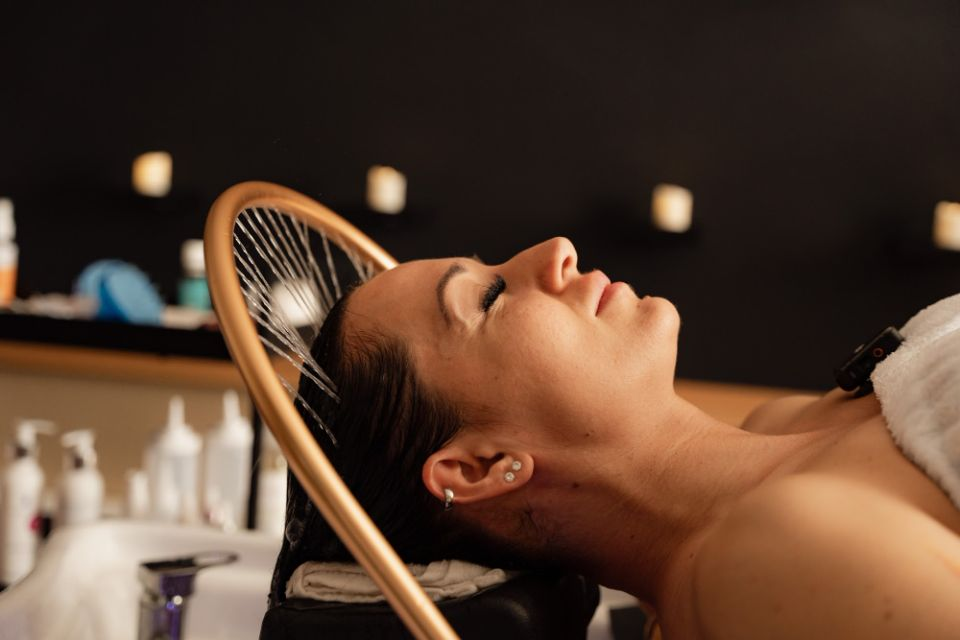
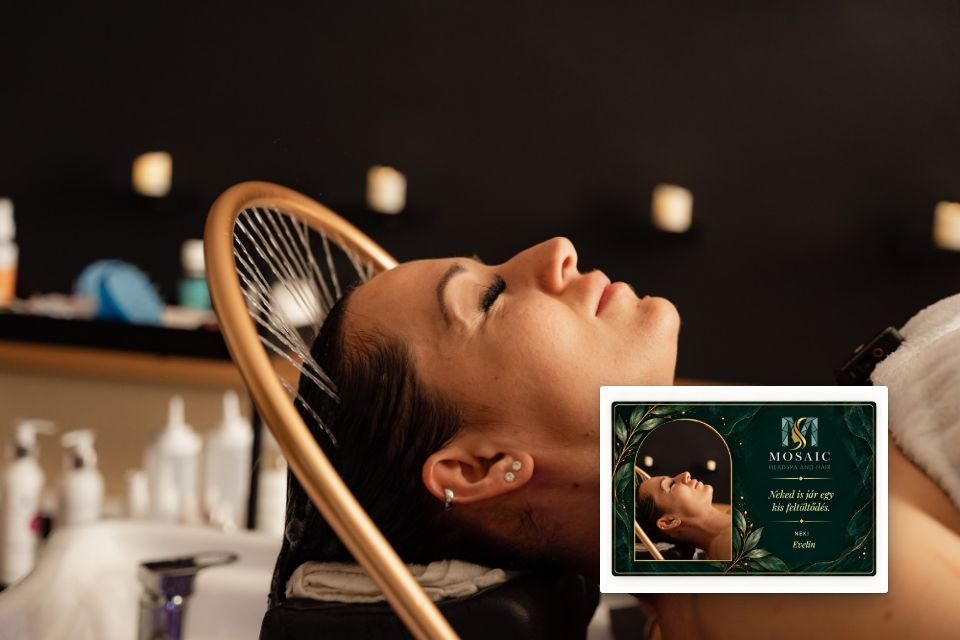
Ajandekkartya valaszto: "Szemelyre szabhato" jelveny a kartyak fotojan + mintakartya a Head Spa es oxigenes fotokon
A tulajdonos kerese: a valaszton mar latszodjon, hogy az ajandekkartya szemelyre szabhato (sajat fotoval, sajat szoveggel). Mindharom kartya fotojanak jobb felso sarkaban kis jelveny ("Szemelyre szabhato" + "sajat fotoval, sajat szoveggel"; telefonon rovid felirat a foto tetejen), es a Head Spa es az oxigenes fotokon is ott a mintakartya (feher keret, arnyek, jobb also resz), mint a lezeres foton: a repo sajat kartya-renderelojevel keszult (smaragd elolap, iv alaku fotohellyel, idezettel, "NEKI Evelin"). A mobilon levagott fotokon a kartya jobbra igazitva latszik (object-position). A foto alt-szovegei jelzik a kartyat. Uj teszt a jelvenyre.

Changed region(s): [[0.5938, 0.5938, 0.9375, 0.9688]]

diff --git a/foglalas/ajandekkartya.html b/foglalas/ajandekkartya.html
@@ -36,6 +36,12 @@ body.av { margin: 0; background: var(--hatter); color: var(--szoveg); font: 400 
 .av-kartya:hover, .av-kartya:focus-visible { transform: translateY(-3px); box-shadow: 0 2px 4px rgba(40, 30, 20, .06), 0 14px 32px rgba(40, 30, 20, .12); }
 .av-kartya:focus-visible { outline: 3px solid #c6a346; outline-offset: 3px; }
 .av-kep { display: block; width: 100%; height: auto; aspect-ratio: 3 / 2; object-fit: cover; background: #e2e5db; }
+/* "Személyre szabható" jelvény a kártya fotójának jobb felső sarkában (a fotókon ott a mintakártya is: saját fotóval, saját szöveggel) */
+.av-kartya { position: relative; }
+.av-jelveny { position: absolute; top: 12px; right: 12px; z-index: 2; display: inline-flex; align-items: center; gap: 8px; max-width: calc(100% - 24px); padding: 7px 13px 7px 10px; border-radius: 999px; background: rgba(251, 247, 239, .95); border: 1px solid rgba(198, 163, 70, .75); color: var(--sotet); box-shadow: 0 2px 10px rgba(20, 30, 30, .28); pointer-events: none; }
+.av-jelveny svg { flex: none; width: 16px; height: 16px; color: #a07f4b; }
+.av-jelveny b { display: block; font: 500 13px/1.15 var(--test); }
+.av-jelveny small { display: block; margin-top: 1px; font: 400 11px/1.15 var(--test); color: var(--halk); }
 .av-test { display: flex; flex-direction: column; flex: 1; padding: 22px 24px 26px; }
 .av h2 { margin: 0; font: 500 24px/1.2 var(--cim); color: var(--sotet); }
 .av-szoveg { margin: 8px 0 20px; color: var(--halk); font-size: 16px; }
@@ -60,6 +66,8 @@ body.av { margin: 0; background: var(--hatter); color: var(--szoveg); font: 400 
   .av-kartya:last-child:nth-child(odd) { grid-column: 1 / -1; flex-direction: row; }
   .av-kartya:last-child:nth-child(odd) .av-kep { flex: none; width: 46%; height: auto; aspect-ratio: auto; align-self: stretch; }
   .av-kartya:last-child:nth-child(odd) .av-test { justify-content: center; padding: 22px 24px 24px; }
+  .av-kartya:last-child:nth-child(odd) .av-kep { object-position: 80% 50%; }
+  .av-kartya:last-child:nth-child(odd) .av-jelveny { right: auto; left: calc(46% - 12px); transform: translateX(-100%); }
 }
 /* telefon (599 px-ig): egy oszlop */
 @media (max-width: 599px) {
@@ -80,7 +88,11 @@ body.av { margin: 0; background: var(--hatter); color: var(--szoveg); font: 400 
   .av-bev { margin-top: 8px; font-size: 14.5px; line-height: 1.4; }
   .av-racs { gap: 10px; margin-top: 16px; }
   .av-kartya { flex-direction: row; border-radius: 14px; }
-  .av-kep { flex: none; width: 36%; height: auto; aspect-ratio: auto; align-self: stretch; }
+  .av-kep { flex: none; width: 36%; height: auto; aspect-ratio: auto; align-self: stretch; object-position: 80% 50%; }
+  .av-jelveny { top: 7px; right: auto; left: calc(36% - 7px); transform: translateX(-100%); gap: 4px; padding: 3px 7px 3px 5px; }
+  .av-jelveny svg { width: 11px; height: 11px; }
+  .av-jelveny b { font-size: 10px; }
+  .av-jelveny small { display: none; }
   .av-test { padding: 10px 12px 12px; justify-content: center; }
   .av h2 { font-size: 17px; line-height: 1.15; }
   .av-szoveg { margin: 4px 0 8px; font-size: 13px; line-height: 1.35; display: -webkit-box; -webkit-line-clamp: 2; -webkit-box-orient: vertical; overflow: hidden; }
@@ -102,7 +114,8 @@ body.av { margin: 0; background: var(--hatter); color: var(--szoveg); font: 400 
 
   <div class="av-racs">
     <a class="av-kartya" href="/headspa-ajandekkartya">
-      <img class="av-kep" src="/assets/img/ajandek/valaszto-headspa.jpg" alt="Vendég Head Spa kezelésen, az arany zuhanyív alatt" width="960" height="640" fetchpriority="high">
+      <img class="av-kep" src="/assets/img/ajandek/valaszto-headspa.jpg" alt="Vendég Head Spa kezelésen, az arany zuhanyív alatt, előtte egy személyre szabott ajándékkártya" width="960" height="640" fetchpriority="high">
+      <span class="av-jelveny"><svg viewBox="0 0 24 24" fill="none" stroke="currentColor" stroke-width="1.8" stroke-linecap="round" stroke-linejoin="round" aria-hidden="true"><path d="M4 20l1-4L16.5 4.5a2 2 0 0 1 3 3L8 19z"/><path d="M14.5 6.5l3 3"/></svg><span><b>Személyre szabható</b><small>saját fotóval, saját szöveggel</small></span></span>
       <span class="av-test">
         <h2>Head Spa ajándékkártya</h2>
         <span class="av-szoveg">Egyéni, 4 kezes vagy páros Head Spa élmény: fejbőrmasszázs, hajmosás és egy kis kikapcsolódás. Digitális vagy nyomtatott kártyán.</span>
@@ -111,6 +124,7 @@ body.av { margin: 0; background: var(--hatter); color: var(--szoveg); font: 400 
     </a>
     <a class="av-kartya" href="/lezeres-ajandekkartya">
       <img class="av-kep" src="/assets/img/ajandek/valaszto-lezer.jpg" alt="Kezelő és vendég a MOSAIC szőrtelenítő szobájában, előtte egy személyre szabott ajándékkártya" width="960" height="640" loading="lazy" decoding="async">
+      <span class="av-jelveny"><svg viewBox="0 0 24 24" fill="none" stroke="currentColor" stroke-width="1.8" stroke-linecap="round" stroke-linejoin="round" aria-hidden="true"><path d="M4 20l1-4L16.5 4.5a2 2 0 0 1 3 3L8 19z"/><path d="M14.5 6.5l3 3"/></svg><span><b>Személyre szabható</b><small>saját fotóval, saját szöveggel</small></span></span>
       <span class="av-test">
         <h2>Szőrtelenítés ajándékkártya</h2>
         <span class="av-szoveg">Lézeres szőrtelenítés ajándékba: válassz hónaljat, lábat vagy teljes csomagot. E-mailben kapod meg, és ki is nyomtathatod.</span>
@@ -118,7 +132,8 @@ body.av { margin: 0; background: var(--hatter); color: var(--szoveg); font: 400 
       </span>
     </a>
     <a class="av-kartya" href="/oxigen-ajandekkartya">
-      <img class="av-kep" src="/assets/img/ajandek/valaszto-oxigen.jpg" alt="Oxigénterápiás hajkezelés a MOSAIC-ban: a kezelő a vendég fejbőrét kezeli" width="960" height="640" loading="lazy" decoding="async">
+      <img class="av-kep" src="/assets/img/ajandek/valaszto-oxigen.jpg" alt="Oxigénterápiás hajkezelés a MOSAIC-ban: a kezelő a vendég fejbőrét kezeli, előtte egy személyre szabott ajándékkártya" width="960" height="640" loading="lazy" decoding="async">
+      <span class="av-jelveny"><svg viewBox="0 0 24 24" fill="none" stroke="currentColor" stroke-width="1.8" stroke-linecap="round" stroke-linejoin="round" aria-hidden="true"><path d="M4 20l1-4L16.5 4.5a2 2 0 0 1 3 3L8 19z"/><path d="M14.5 6.5l3 3"/></svg><span><b>Személyre szabható</b><small>saját fotóval, saját szöveggel</small></span></span>
       <span class="av-test">
         <h2>Oxigénterápia ajándékkártya</h2>
         <span class="av-szoveg">Hajkamerás vizsgálat, az első kezelés vagy 5 / 10 alkalmas bérlet. E-mailben kapod meg, és ki is nyomtathatod.</span>
